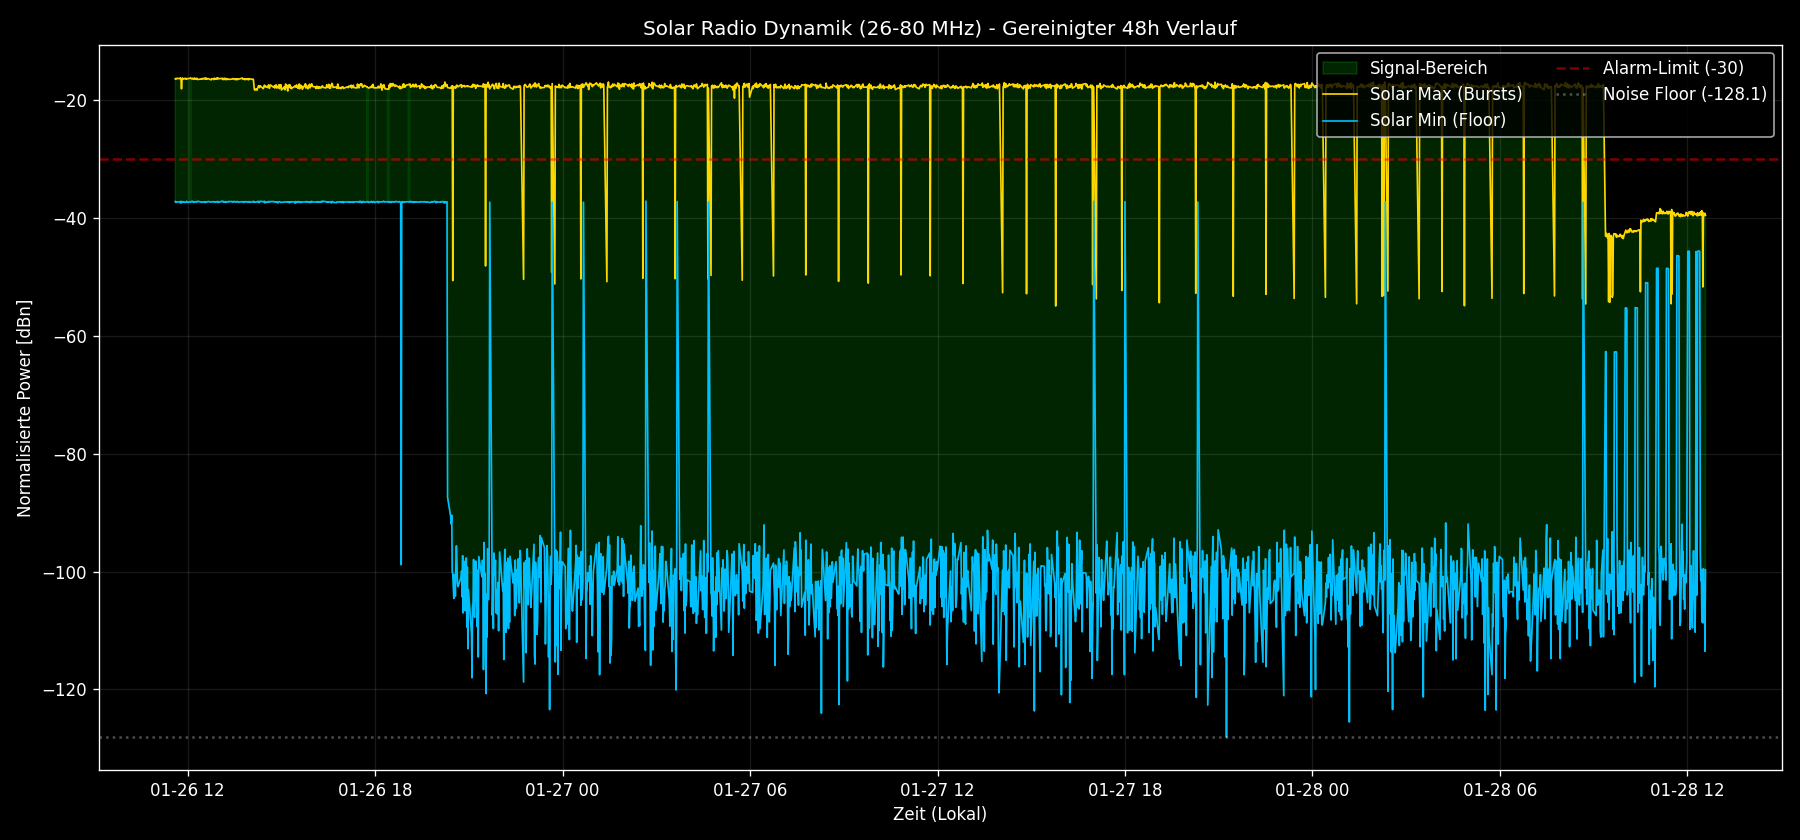
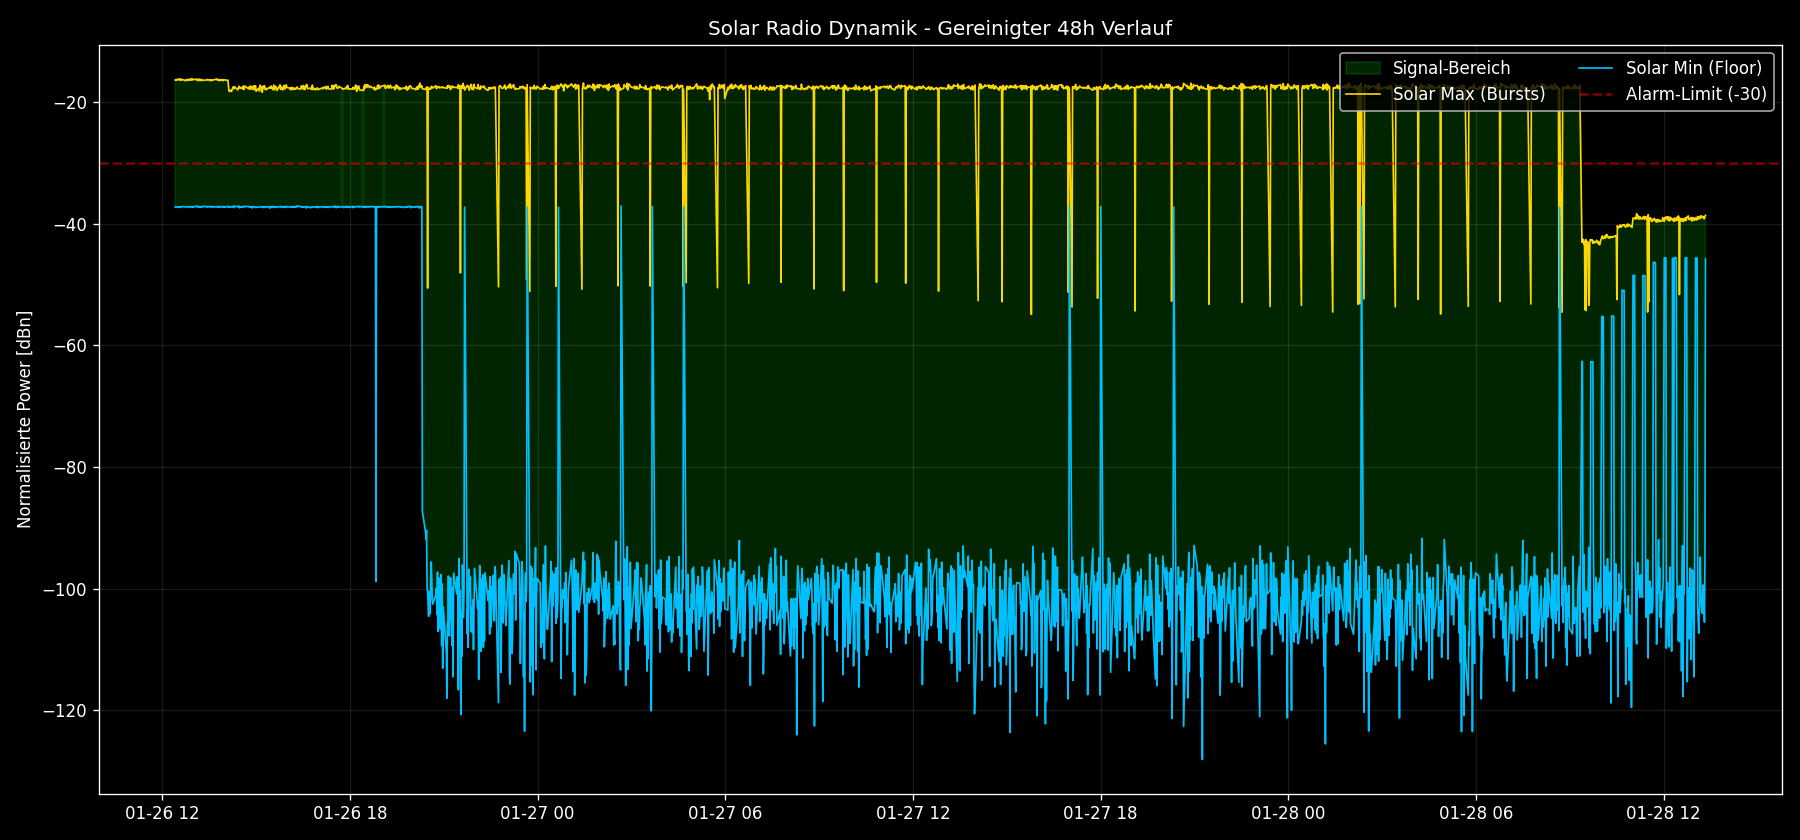
app.py update. heatmaps erstellung auf latest.

diff --git a/app.py b/app.py
@@ -4,122 +4,135 @@ import pandas as pd
 from sqlalchemy import create_engine
 import plotly.graph_objects as go
 import plotly.utils
-from flask import Flask, render_template_string, request
+from flask import Flask, render_template_string, request, send_from_directory
+from datetime import datetime
 from dotenv import load_dotenv
 
 load_dotenv()
 app = Flask(__name__)
+
+# Verzeichnis für die generierten Bilder (Heatmaps/Plots)
+OUTPUT_DIR = "recordings"
+
 db_url = f"postgresql://{os.getenv('POSTGRES_USER')}:{os.getenv('POSTGRES_PASSWORD')}@{os.getenv('POSTGRES_HOST')}/{os.getenv('POSTGRES_DB')}"
 engine = create_engine(db_url)
 
-def get_data(hours=2, band="Solar_Radio"):
+# Route um die statischen Bilder aus dem recordings-Ordner zu servieren
+@app.route('/recordings/<path:filename>')
+def serve_recordings(filename):
+    return send_from_directory(OUTPUT_DIR, filename)
+
+def get_stats():
+    """Holt aktuelle Max/Avg Werte für die Info-Boxen."""
     try:
-        # Filtert nun dynamisch nach dem gewünschten Band
-        query = f"""
-            SELECT timestamp, frequency, power 
+        query = """
+            SELECT band_name, MAX(power) as max_p, AVG(power) as avg_p 
             FROM frequency_spectrum 
-            WHERE timestamp > NOW() - INTERVAL '{hours} hours'
-            AND band_name = '{band}'
-            ORDER BY timestamp DESC
+            WHERE timestamp > NOW() - INTERVAL '5 minutes'
+            GROUP BY band_name
         """
         df = pd.read_sql(query, engine)
-        
-        if not df.empty:
-            df['frequency'] = df['frequency'].round(1)
-            df['timestamp'] = pd.to_datetime(df['timestamp'])
-            
-            if hours > 6:
-                all_times = sorted(df['timestamp'].unique())
-                keep_times = all_times[::2] 
-                df = df[df['timestamp'].isin(keep_times)]
-                
-        return df
-    except Exception as e:
-        print(f"DB Error: {e}")
-        return pd.DataFrame()
+        stats = {}
+        for _, row in df.iterrows():
+            stats[row['band_name']] = {
+                'max': round(row['max_p'], 1),
+                'avg': round(row['avg_p'], 1)
+            }
+        return stats
+    except:
+        return {}
 
-def create_heatmap(df, title, colorscale='Inferno'):
-    if df.empty:
-        return None
-    
-    pivot_df = df.pivot_table(index='timestamp', columns='frequency', values='power', aggfunc='mean')
-    
-    fig = go.Figure(data=go.Heatmap(
-        z=pivot_df.values.tolist(),
-        x=pivot_df.columns.tolist(), 
-        y=pivot_df.index.tolist(),
-        colorscale=colorscale,
-        colorbar=dict(title="dB"),
-        hovertemplate='Frequenz: %{x} MHz<br>Zeit: %{y}<br>Power: %{z} dB<extra></extra>'
-    ))
-
-    fig.update_layout(
-        title=title,
-        template="plotly_dark",
-        xaxis=dict(title="Frequenz [MHz]", type='linear'),
-        yaxis=dict(title="Zeit", type='date', autorange="reversed"),
-        height=800
-    )
-    return json.dumps(fig, cls=plotly.utils.PlotlyJSONEncoder)
-
-# Basis-Template für beide Seiten
+# Modernes HTML Template basierend auf der solar.html
 HTML_TEMPLATE = """
 <!DOCTYPE html>
-<html>
-    <head>
-        <script src="https://cdn.plot.ly/plotly-latest.min.js"></script>
-        <style>
-            body { background:#111; color:white; font-family:sans-serif; margin:0; }
-            .nav { padding: 15px; background: #222; display: flex; gap: 10px; border-bottom: 1px solid #444; align-items: center; }
-            .nav-right { margin-left: auto; display: flex; gap: 10px; }
-            button { padding: 8px 15px; cursor: pointer; background: #444; color: white; border: none; border-radius: 4px; }
-            button:hover { background: #666; }
-            button.active { background: #007bff; }
-            .brand { font-weight: bold; color: #ff9800; margin-right: 20px; }
-        </style>
-    </head>
-    <body>
-        <div class="nav">
-            <span class="brand">SolarMonitor</span>
-            <button onclick="location.href='/?hours={{h}}'" class="{{'active' if mode=='solar' else ''}}">Solar-Daten</button>
-            <button onclick="location.href='/diagnostic?hours={{h}}'" class="{{'active' if mode=='diag' else ''}}">System-Diagnose (UKW)</button>
-            
-            <div class="nav-right">
-                <button onclick="location.href='?hours=1'">1h</button>
-                <button onclick="location.href='?hours=6'">6h</button>
-                <button onclick="location.href='?hours=24'">24h</button>
+<html lang="de">
+<head>
+    <meta charset="UTF-8">
+    <meta name="viewport" content="width=device-width, initial-scale=1.0">
+    <title>Solar Monitor Pro - Dashboard</title>
+    <script src="https://cdn.tailwindcss.com"></script>
+    <style>
+        .glass { background: rgba(17, 24, 39, 0.8); backdrop-filter: blur(12px); }
+        body { background: #000; }
+    </style>
+</head>
+<body class="text-gray-100 min-h-screen p-4 flex flex-col items-center gap-6">
+
+    <div class="w-full max-w-5xl p-6 glass rounded-3xl border border-gray-800 shadow-2xl">
+        <div class="flex justify-between items-center mb-6">
+            <h1 class="text-2xl font-bold text-orange-500">Solar Monitor <span class="text-gray-500 font-light italic">Live</span></h1>
+            <div class="flex items-center gap-2">
+                <span class="text-xs text-gray-500 font-mono">SYSTEM ONLINE</span>
+                <div class="w-3 h-3 rounded-full bg-green-500 animate-pulse"></div>
             </div>
         </div>
-        {% if graphJSON %}
-            <div id="chart"></div>
-            <script>
-                var graphs = {{ graphJSON | safe }};
-                Plotly.newPlot('chart', graphs.data, graphs.layout, {responsive: true});
-            </script>
-        {% else %}
-            <div style="padding: 50px; text-align: center;">
-                <h2>Keine Daten für diesen Zeitraum gefunden.</h2>
-                <p>Modus: {{ "Solar" if mode=='solar' else "Diagnose" }}</p>
+
+        <div class="grid grid-cols-1 md:grid-cols-2 gap-4 mb-8">
+            <div class="bg-gray-900/50 p-4 rounded-xl border border-gray-800 relative overflow-hidden">
+                <div class="absolute left-0 top-0 bottom-0 w-1 bg-blue-500"></div>
+                <h3 class="text-xs font-bold text-blue-400 uppercase mb-3 ml-2">FM Referenz (UKW)</h3>
+                <div class="grid grid-cols-2 gap-4 ml-2">
+                    <div><p class="text-[10px] text-gray-500 uppercase">Peak</p><div class="text-xl font-mono">{{ stats.get('Diagnostic_FM', {}).get('max', '--') }} dB</div></div>
+                    <div><p class="text-[10px] text-gray-500 uppercase">Avg</p><div class="text-xl font-mono text-gray-400">{{ stats.get('Diagnostic_FM', {}).get('avg', '--') }} dB</div></div>
+                </div>
             </div>
-        {% endif %}
-    </body>
+            <div class="bg-gray-900/50 p-4 rounded-xl border border-gray-800 relative overflow-hidden">
+                <div class="absolute left-0 top-0 bottom-0 w-1 bg-orange-500"></div>
+                <h3 class="text-xs font-bold text-orange-400 uppercase mb-3 ml-2">Solar Radio (26-80 MHz)</h3>
+                <div class="grid grid-cols-2 gap-4 ml-2">
+                    <div><p class="text-[10px] text-gray-500 uppercase">Max</p><div class="text-xl font-mono">{{ stats.get('Solar_Radio', {}).get('max', '--') }} dB</div></div>
+                    <div><p class="text-[10px] text-gray-500 uppercase">Floor</p><div class="text-xl font-mono text-gray-400">{{ stats.get('Solar_Radio', {}).get('avg', '--') }} dB</div></div>
+                </div>
+            </div>
+        </div>
+
+        <div class="mb-12">
+            <h2 class="text-lg font-semibold uppercase tracking-wider text-blue-400 mb-6 border-b border-gray-800 pb-2">Spektrum Analyse</h2>
+            <div class="grid grid-cols-1 md:grid-cols-2 gap-6">
+                
+                <div class="relative bg-black rounded-xl border border-gray-800 overflow-hidden">
+                    <div class="absolute top-3 left-3 bg-orange-600/80 text-[10px] px-2 py-1 rounded font-bold z-10">VIEW: 1 STD SOLAR</div>
+                    <img src="/recordings/latest_1h_Solar.png" class="w-full h-auto">
+                </div>
+
+                <div class="relative bg-black rounded-xl border border-gray-800 overflow-hidden">
+                    <div class="absolute top-3 left-3 bg-orange-600/80 text-[10px] px-2 py-1 rounded font-bold z-10">VIEW: 6 STD SOLAR</div>
+                    <img src="/recordings/latest_6h_Solar.png" class="w-full h-auto">
+                </div>
+
+                <div class="relative bg-black rounded-xl border border-gray-800 overflow-hidden md:col-span-2">
+                    <div class="absolute top-3 left-3 bg-blue-600/80 text-[10px] px-2 py-1 rounded font-bold z-10">VIEW: 48 STD DYNAMIK VERLAUF</div>
+                    <img src="/recordings/signal_solar_dynamic_48h.png" class="w-full h-auto">
+                </div>
+
+                <div class="relative bg-black rounded-xl border border-gray-800 overflow-hidden md:col-span-2">
+                    <div class="absolute top-3 left-3 bg-orange-600/80 text-[10px] px-2 py-1 rounded font-bold z-10">VIEW: 24 STD SOLAR WATERFALL</div>
+                    <img src="/recordings/latest_24h_Solar.png" class="w-full h-auto">
+                </div>
+            </div>
+        </div>
+
+        <div class="text-center text-gray-600 text-[10px] font-mono border-t border-gray-800 pt-4">
+            LETZTES UPDATE: {{ now }} | AUTO-REFRESH JEDE MINUTE
+        </div>
+    </div>
+
+    <script>
+        // Automatischer Reload alle 60 Sekunden
+        setTimeout(() => { location.reload(); }, 60000);
+    </script>
+</body>
 </html>
 """
 
 @app.route('/')
 def index():
-    hours = request.args.get('hours', default=2, type=int)
-    df = get_data(hours, "Solar_Radio")
-    graphJSON = create_heatmap(df, f"Solar-Spektrum (26-80 MHz) - Letzte {hours}h", 'Inferno')
-    return render_template_string(HTML_TEMPLATE, graphJSON=graphJSON, h=hours, mode='solar')
-
-@app.route('/diagnostic')
-def diagnostic():
-    hours = request.args.get('hours', default=2, type=int)
-    df = get_data(hours, "Diagnostic_FM")
-    # Diagnostic bekommt eine andere Farbskala (Viridis) zur optischen Trennung
-    graphJSON = create_heatmap(df, f"Hardware-Check (UKW Referenz) - Letzte {hours}h", 'Viridis')
-    return render_template_string(HTML_TEMPLATE, graphJSON=graphJSON, h=hours, mode='diag')
+    current_stats = get_stats()
+    timestamp = datetime.now().strftime("%H:%M:%S")
+    return render_template_string(HTML_TEMPLATE, stats=current_stats, now=timestamp)
 
 if __name__ == '__main__':
-    app.run(host='0.0.0.0', port=5000)
+    # Sicherstellen, dass der recordings Ordner existiert
+    if not os.path.exists(OUTPUT_DIR):
+        os.makedirs(OUTPUT_DIR)
+    app.run(host='0.0.0.0', port=5001)

diff --git a/generate_heatmap.py b/generate_heatmap.py
@@ -16,9 +16,8 @@ db_url = f"postgresql://{os.getenv('POSTGRES_USER')}:{os.getenv('POSTGRES_PASSWO
 engine = create_engine(db_url)
 
 def generate_dynamic_plots(hours=48):
-    """Erzeugt ein sauberes 48h Dynamik-Diagramm nur für Solar-Daten."""
+    """Erzeugt den 48h Solar-Trend ohne FM-Nadeln."""
     try:
-        # Abfrage nur für Solar_Radio über den Zeitraum X (48h)
         query = f"""
             SELECT timestamp, power, applied_gain 
             FROM frequency_spectrum 
@@ -29,57 +28,43 @@ def generate_dynamic_plots(hours=48):
         df = pd.read_sql(query, engine)
         if df.empty: return
 
-        # Normalisierung (Power - Gain)
         df['normalized_power'] = df['power'] - df['applied_gain']
         
         plt.style.use('dark_background')
         fig, ax1 = plt.subplots(figsize=(15, 7))
 
-        # --- SOLAR DATEN AUFBEREITUNG ---
         df['timestamp'] = df['timestamp'].dt.floor('min')
         s_stats = df.groupby('timestamp')['normalized_power'].agg(['min', 'max']).reset_index()
         
-        # NADEL-KILLER: Filtert Dropouts während der FM-Scan-Pausen (< -130 dBn)
+        # Filtert FM-Umschaltpausen (< -130 dBn)
         s_stats = s_stats[s_stats['min'] > -130] 
-        
-        # Resampling und Interpolation füllt die Lücken der FM-Scans für eine glatte Linie
         s_stats = s_stats.set_index('timestamp').resample('1min').mean()
         s_stats = s_stats.interpolate(method='linear', limit=5).reset_index()
         
-        # Plotting
         ax1.fill_between(s_stats['timestamp'], s_stats['min'], s_stats['max'], color='#00FF00', alpha=0.15, label='Signal-Bereich')
         ax1.plot(s_stats['timestamp'], s_stats['max'], color='#FFD700', linewidth=1, label='Solar Max (Bursts)')
         ax1.plot(s_stats['timestamp'], s_stats['min'], color='#00BFFF', linewidth=1, label='Solar Min (Floor)')
         
-        # Referenzlinien
-        current_min = s_stats['min'].min()
         ax1.axhline(y=-30, color='red', linestyle='--', alpha=0.5, label='Alarm-Limit (-30)')
-        ax1.axhline(y=current_min, color='white', linestyle=':', alpha=0.3, label=f'Noise Floor ({current_min:.1f})')
         
-        ax1.set_title(f"Solar Radio Dynamik (26-80 MHz) - Gereinigter {hours}h Verlauf")
+        ax1.set_title(f"Solar Radio Dynamik - Gereinigter {hours}h Verlauf")
         ax1.set_ylabel("Normalisierte Power [dBn]")
-        ax1.set_xlabel("Zeit (Lokal)")
         ax1.legend(loc='upper right', ncol=2)
         ax1.grid(True, alpha=0.1)
 
         plt.tight_layout()
         plt.savefig(os.path.join(OUTPUT_DIR, "signal_solar_dynamic_48h.png"), dpi=120)
         plt.close(fig)
-        print(f"[{datetime.now()}] 48h Solar-Plot aktualisiert.")
-
     except Exception as e:
-        print(f"Fehler bei Dynamik-Plot: {e}")
+        print(f"Fehler Dynamik-Plot: {e}")
 
-def generate_waterfall():
-    """Erstellt die Heatmap (3h) mit Auto-Scaling für optimalen Kontrast."""
-    if not os.path.exists(OUTPUT_DIR): os.makedirs(OUTPUT_DIR)
-
+def create_waterfall_image(hrs, filename):
+    """Generiert eine Heatmap für ein spezifisches Zeitfenster."""
     try:
-        # 3-Stunden Export für den Waterfall
-        query = """
+        query = f"""
             SELECT timestamp, frequency, power, applied_gain 
             FROM frequency_spectrum 
-            WHERE timestamp > NOW() - INTERVAL '3 hours'
+            WHERE timestamp > NOW() - INTERVAL '{hrs} hours'
             AND band_name = 'Solar_Radio'
             ORDER BY timestamp ASC
         """
@@ -89,7 +74,7 @@ def generate_waterfall():
         df['normalized_power'] = df['power'] - df['applied_gain']
         df['frequency'] = df['frequency'].round(1)
         
-        # AUTO-SCALING: 10. Perzentil als vmin für tiefen Noise-Floor
+        # Auto-Scaling für optimalen Kontrast
         auto_vmin = np.percentile(df['normalized_power'], 10)
         auto_vmax = max(-30, df['normalized_power'].max())
 
@@ -98,34 +83,33 @@ def generate_waterfall():
         plt.style.use('dark_background')
         fig, ax = plt.subplots(figsize=(10, 14))
         
-        im = ax.imshow(
-            pivot_df.values, aspect='auto', origin='lower',
-            extent=[pivot_df.columns.min(), pivot_df.columns.max(), 0, len(pivot_df.index)],
-            cmap='viridis', vmin=auto_vmin, vmax=auto_vmax
-        )
+        im = ax.imshow(pivot_df.values, aspect='auto', origin='lower',
+                       extent=[pivot_df.columns.min(), pivot_df.columns.max(), 0, len(pivot_df.index)],
+                       cmap='viridis', vmin=auto_vmin, vmax=auto_vmax)
 
-        # Zeit-Achse
         num_ticks = 15
         indices = [int(i) for i in pd.Series(range(len(pivot_df.index))).iloc[::max(1, len(pivot_df.index)//num_ticks)]]
         ax.set_yticks(indices)
         ax.set_yticklabels([pivot_df.index[i].strftime('%H:%M') for i in indices])
 
-        ax.set_title(f"Solar Waterfall (Auto-Scaled: {auto_vmin:.0f} to {auto_vmax:.0f} dBn)")
-        ax.set_xlabel("Frequenz [MHz]")
-        ax.set_ylabel("Zeit (Verlauf nach oben)")
-        fig.colorbar(im, label='Rel. Power [dBn]')
-
-        timestamp_str = datetime.now().strftime("%Y%m%d_%H%M")
-        plt.savefig(os.path.join(OUTPUT_DIR, f"heatmap_solar_vert_{timestamp_str}.png"), dpi=100, bbox_inches='tight')
-        plt.close(fig) 
-        print(f"[{datetime.now()}] Waterfall erstellt.")
-
+        ax.set_title(f"Solar {hrs}h Waterfall")
+        plt.savefig(os.path.join(OUTPUT_DIR, filename), dpi=100, bbox_inches='tight')
+        plt.close(fig)
     except Exception as e:
-        print(f"Fehler bei Heatmap: {e}")
+        print(f"Fehler Waterfall ({hrs}h): {e}")
 
 if __name__ == "__main__":
-    print(f"[{datetime.now()}] Monitoring gestartet (Waterfall & 48h Dynamik)...")
+    if not os.path.exists(OUTPUT_DIR): os.makedirs(OUTPUT_DIR)
+    print(f"[{datetime.now()}] Solar-Only Service gestartet...")
+    
     while True:
-        generate_waterfall()
+        # 1. Dynamik Plot (48h)
         generate_dynamic_plots(hours=48)
+        
+        # 2. Die drei benötigten Waterfall-Fenster für das Dashboard
+        create_waterfall_image(1, "latest_1h_Solar.png")
+        create_waterfall_image(6, "latest_6h_Solar.png")
+        create_waterfall_image(24, "latest_24h_Solar.png")
+        
+        print(f"[{datetime.now()}] Dashboard-Bilder aktualisiert. Warte {INTERVAL_SECONDS}s...")
         time.sleep(INTERVAL_SECONDS)
